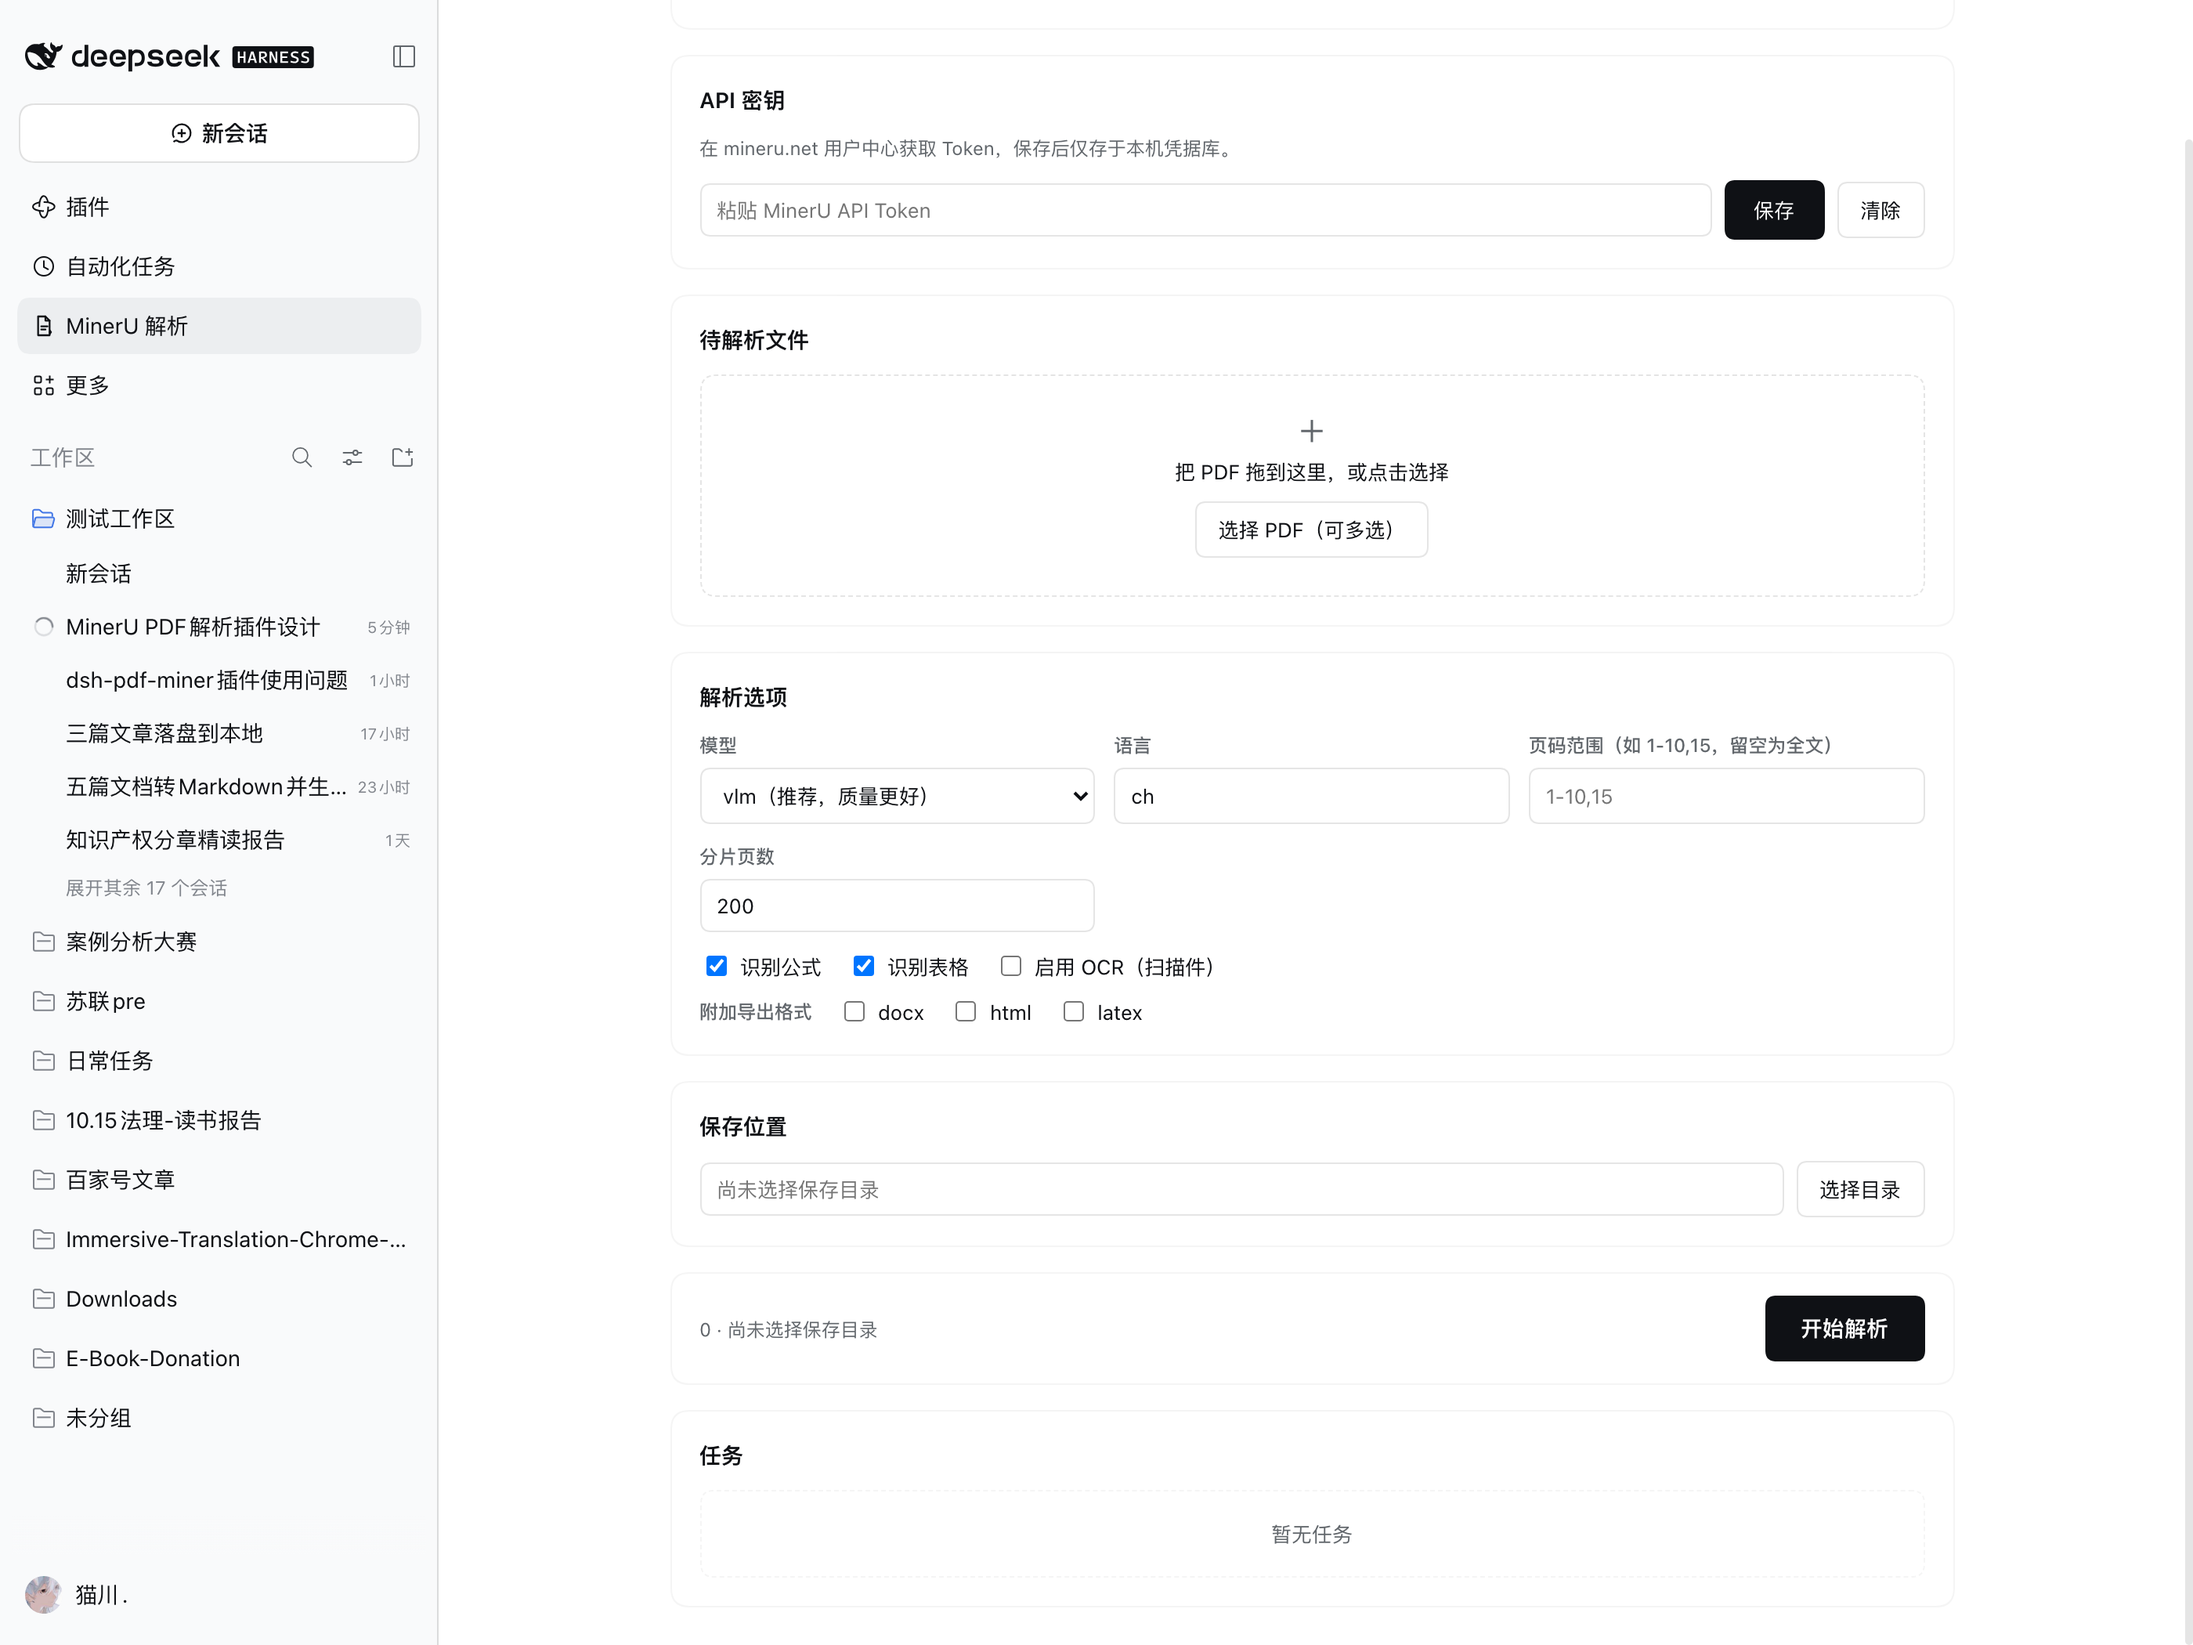
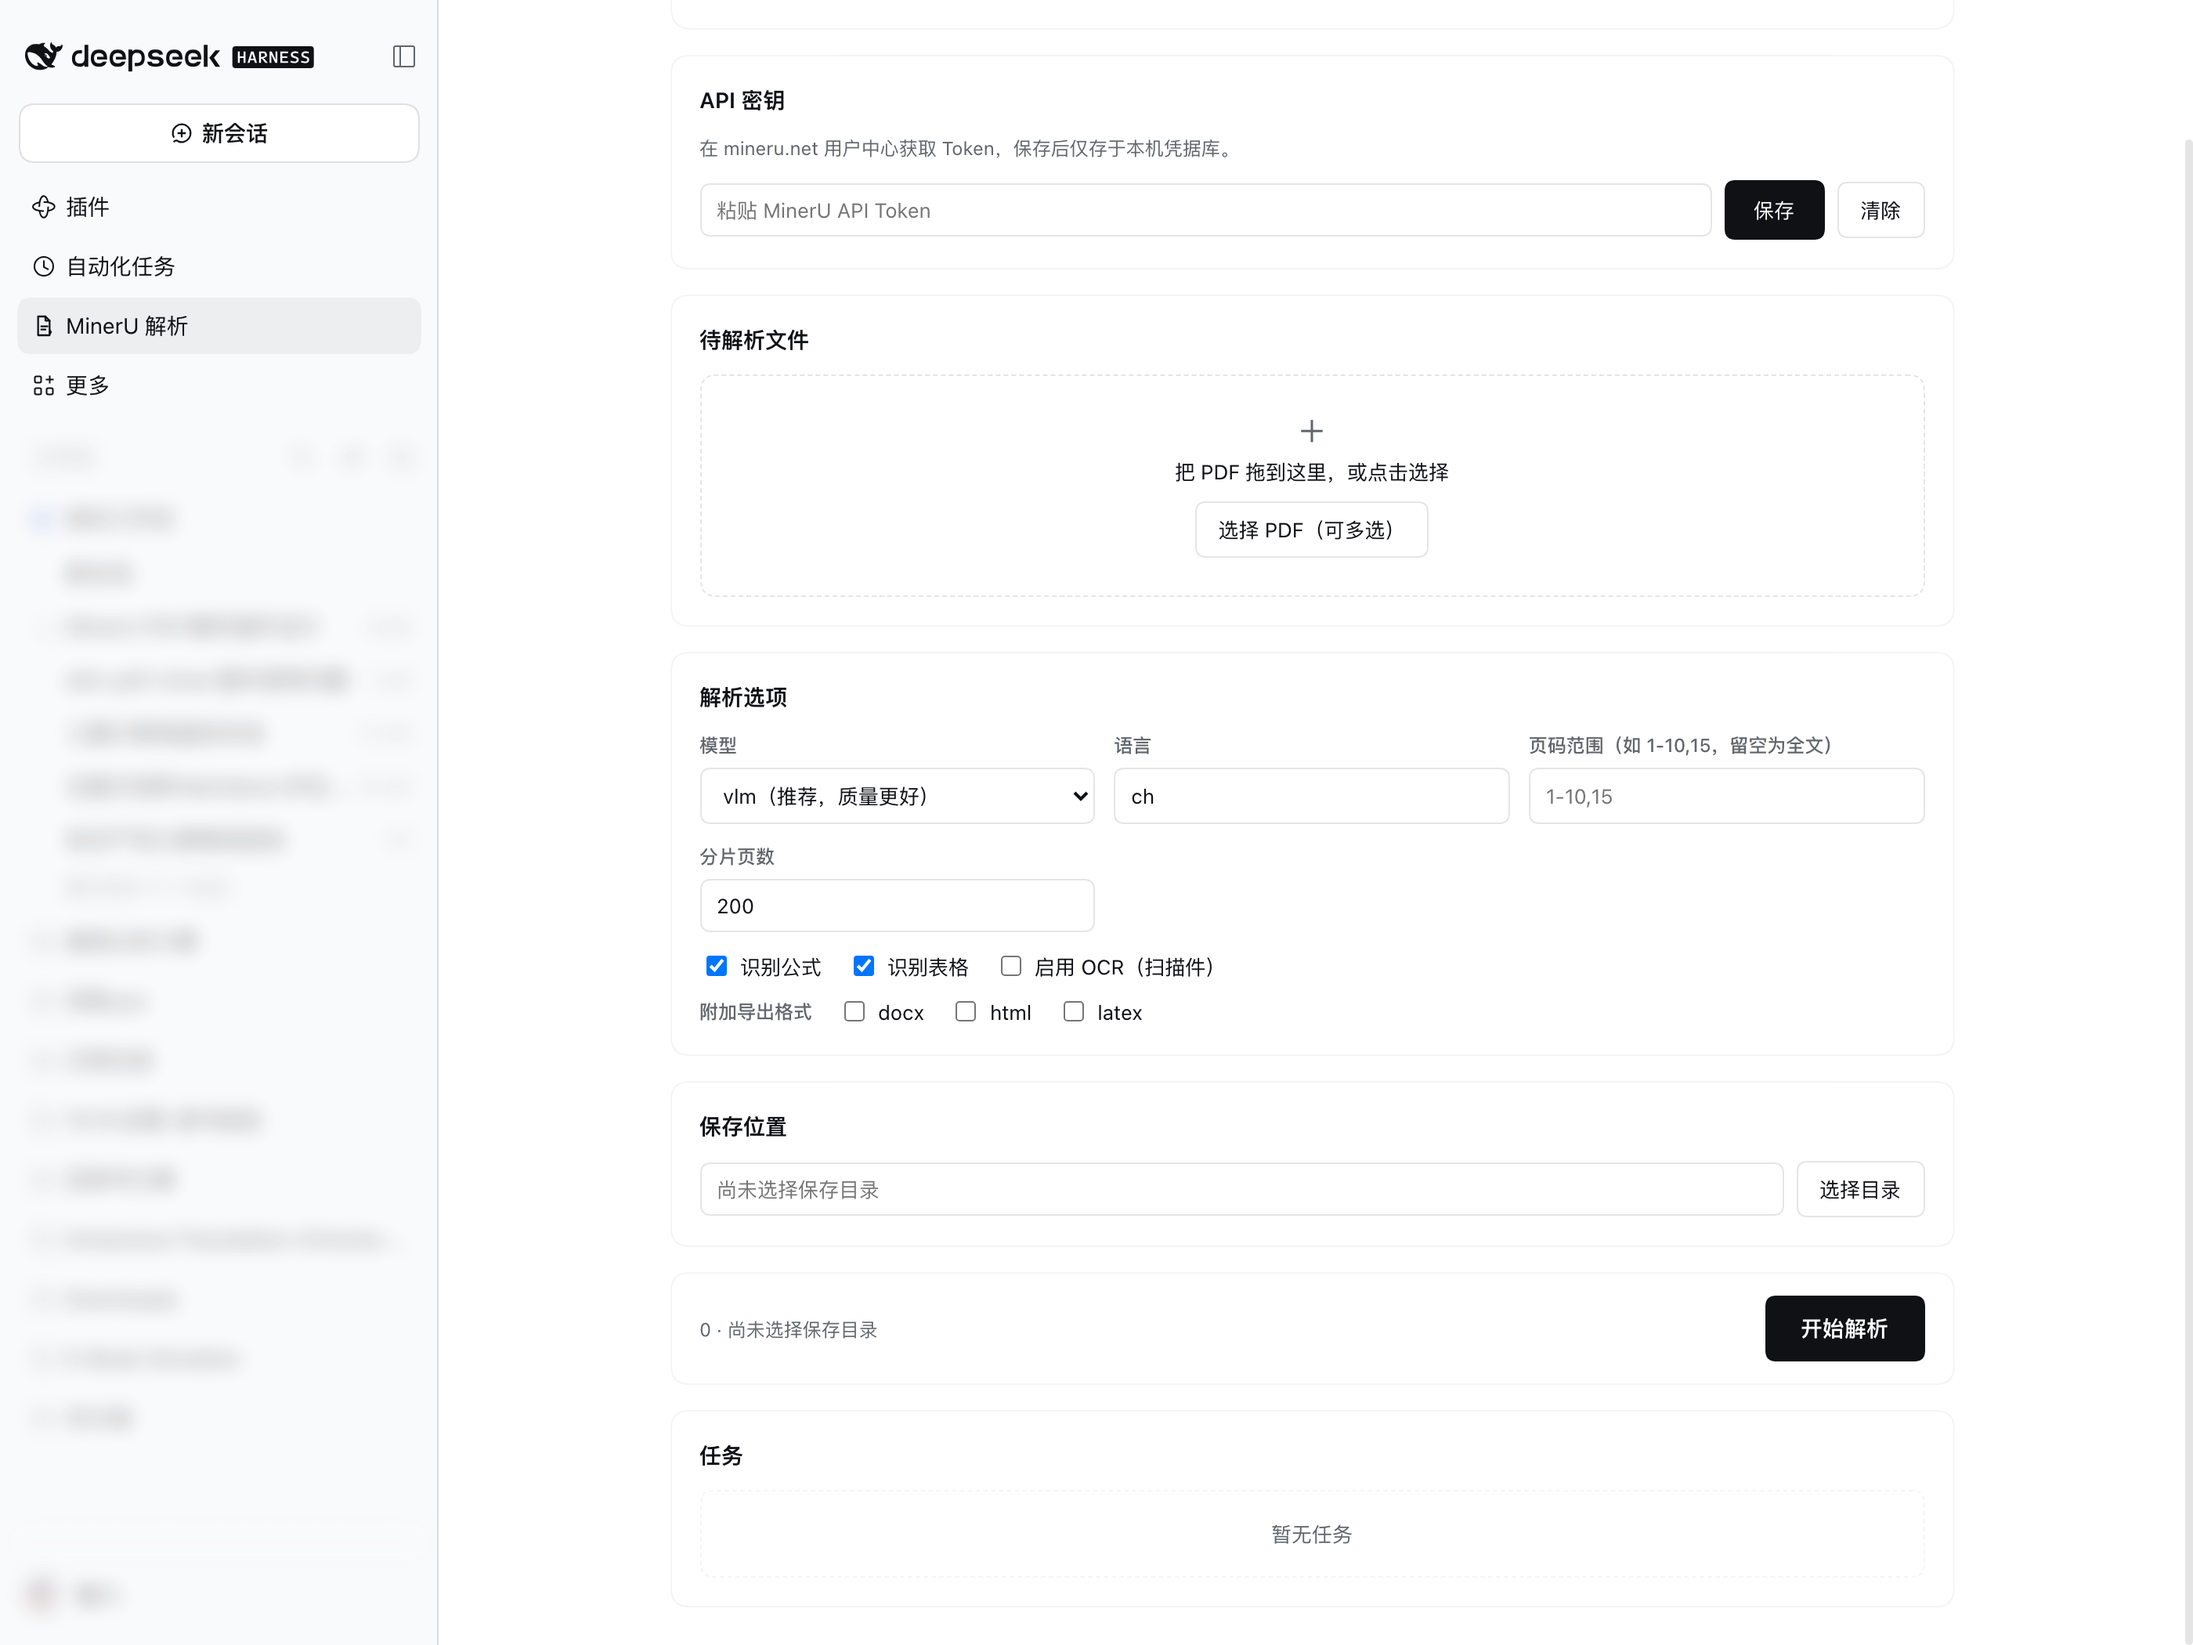
fix(ui): align ModuleLoader id to dsh-mineru and mask private sidebar info in screenshots

diff --git a/ui.js b/ui.js
@@ -1,5 +1,5 @@
 window.__ModuleLoader__.load({
-  id: '@local/dsh-mineru',
+  id: 'dsh-mineru',
   factory(require) {
     const React = require('react');
     const h = React.createElement;
